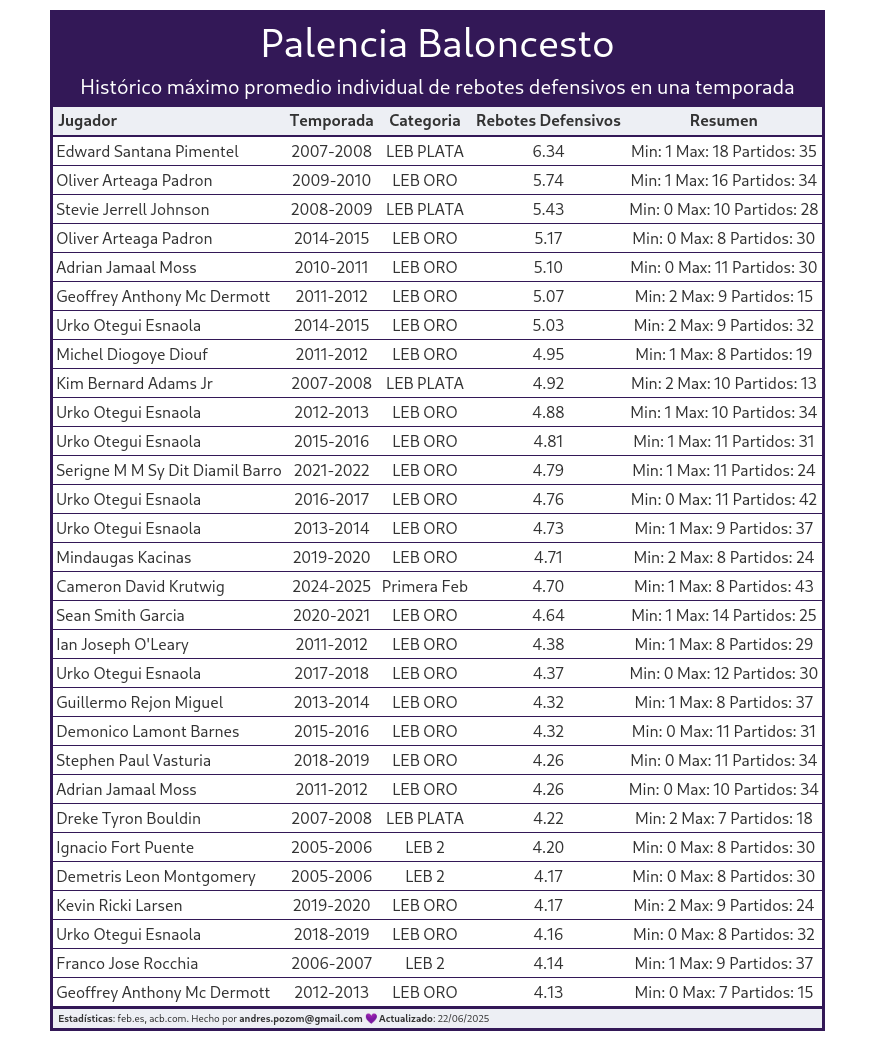
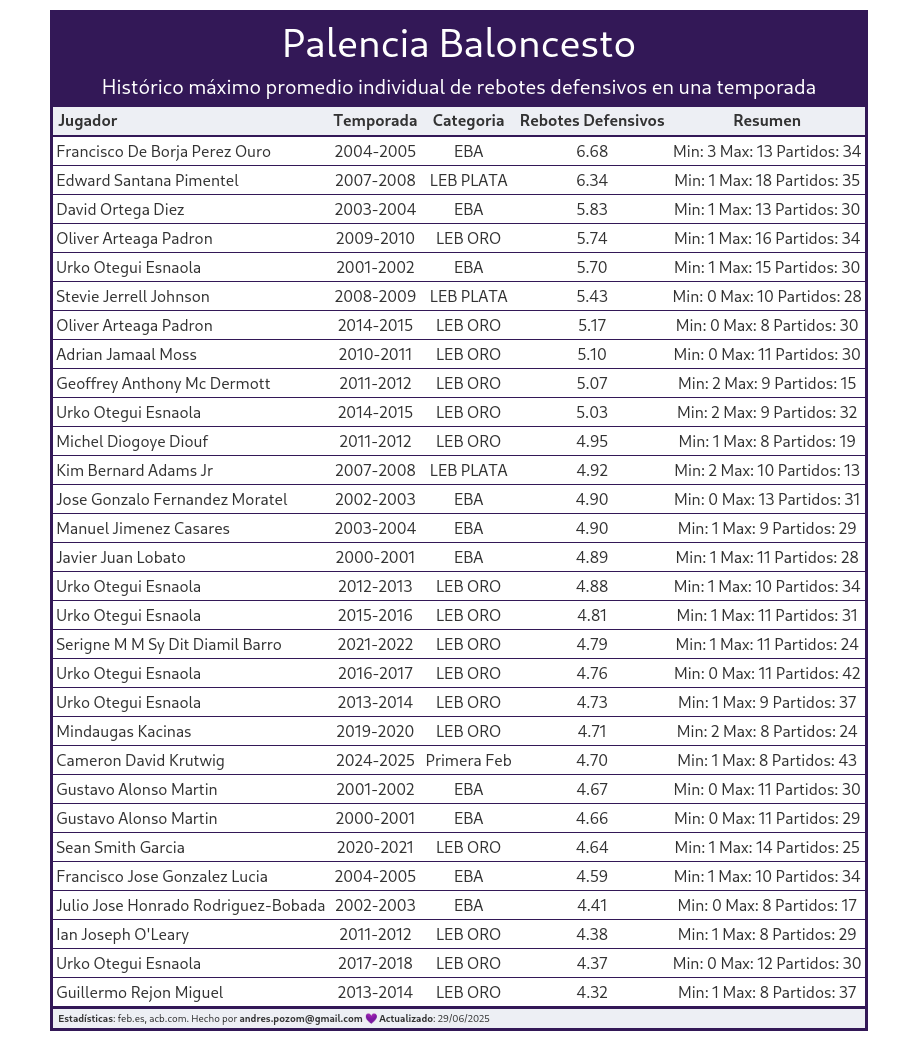
Update 20250629

Changed region(s): [[0.0309, 0.0307, 0.9566, 0.9837]]

diff --git a/records_individuales_temporadas.md b/records_individuales_temporadas.md
@@ -4,20 +4,38 @@
 ![Histórico máximo promedio individual de valoración en una temporada](imgs/Palencia_Baloncesto_Ranking_Temporadas_Valoracion_Individual.png)
 ![Histórico máximo promedio individual de valoracion en una temporada(Plata, Oro y ACB)](imgs/Palencia_Baloncesto_Ranking_Temporadas_Valoracion_Individual_plata_oro_acb.png)
 ![Histórico máximo promedio individual de rebotes en una temporada](imgs/Palencia_Baloncesto_Ranking_Temporadas_Rebotes_Individual.png)
+![Histórico máximo promedio individual de rebotes en una temporada(Plata, Oro y ACB)](imgs/Palencia_Baloncesto_Ranking_Temporadas_Rebotes_Individual_plata_oro_acb.png)
 ![Histórico máximo promedio individual de rebotes ofensivos en una temporada](imgs/Palencia_Baloncesto_Ranking_Temporadas_Rebotes_Ofensivos_Individual.png)
+![Histórico máximo promedio individual de rebotes ofensivos en una temporada(Plata, Oro y ACB)](imgs/Palencia_Baloncesto_Ranking_Temporadas_Rebotes_Ofensivos_Individual_plata_oro_acb.png)
 ![Histórico máximo promedio individual de rebotes defensivos en una temporada](imgs/Palencia_Baloncesto_Ranking_Temporadas_Rebotes_Defensivos_Individual.png)
+![Histórico máximo promedio individual de rebotes defensivos en una temporada(Plata, Oro y ACB)](imgs/Palencia_Baloncesto_Ranking_Temporadas_Rebotes_Defensivos_Individual_plata_oro_acb.png)
 ![Histórico máximo promedio individual de asistencias en una temporada](imgs/Palencia_Baloncesto_Ranking_Temporadas_Asistencias_Individual.png)
+![Histórico máximo promedio individual de asistencias en una temporada(Plata, Oro y ACB)](imgs/Palencia_Baloncesto_Ranking_Temporadas_Asistencias_Individual_plata_oro_acb.png)
 ![Histórico máximo promedio individual de perdidas en una temporada](imgs/Palencia_Baloncesto_Ranking_Temporadas_Perdidas_Individual.png)
+![Histórico máximo promedio individual de perdidas en una temporada(Plata, Oro y ACB)](imgs/Palencia_Baloncesto_Ranking_Temporadas_Perdidas_Individual_plata_oro_acb.png)
 ![Histórico máximo promedio individual de mates en una temporada](imgs/Palencia_Baloncesto_Ranking_Temporadas_Mates_Individual.png)
+![Histórico máximo promedio individual de mates en una temporada(Plata, Oro y ACB)](imgs/Palencia_Baloncesto_Ranking_Temporadas_Mates_Individual_plata_oro_acb.png)
 ![Histórico máximo promedio individual de faltas cometidas en una temporada](imgs/Palencia_Baloncesto_Ranking_Temporadas_Faltas_Cometidas_Individual.png)
+![Histórico máximo promedio individual de faltas cometidas en una temporada(Plata, Oro y ACB)](imgs/Palencia_Baloncesto_Ranking_Temporadas_Faltas_Cometidas_Individual_plata_oro_acb.png)
 ![Histórico máximo promedio individual de faltas recibidas en una temporada](imgs/Palencia_Baloncesto_Ranking_Temporadas_Faltas_Recibidas_Individual.png)
+![Histórico máximo promedio individual de faltas recibidas en una temporada(Plata, Oro y ACB)](imgs/Palencia_Baloncesto_Ranking_Temporadas_Faltas_Recibidas_Individual_plata_oro_acb.png)
 ![Histórico máximo promedio individual de recuperaciones en una temporada](imgs/Palencia_Baloncesto_Ranking_Temporadas_Recuperaciones_Individual.png)
+![Histórico máximo promedio individual de recuperaciones en una temporada(Plata, Oro y ACB)](imgs/Palencia_Baloncesto_Ranking_Temporadas_Recuperaciones_Individual_plata_oro_acb.png)
 ![Histórico máximo promedio individual TL intentados en una temporada](imgs/Palencia_Baloncesto_Ranking_Temporadas_TL_Intentados_Individual.png)
+![Histórico máximo promedio individual TL intentados en una temporada(Plata, Oro y ACB)](imgs/Palencia_Baloncesto_Ranking_Temporadas_TL_Intentados_Individual_plata_oro_acb.png)
 ![Histórico máximo promedio individual TL convertidos en una temporada](imgs/Palencia_Baloncesto_Ranking_Temporadas_TL_Convertidos_Individual.png)
+![Histórico máximo promedio individual TL convertidos en una temporada(Plata, Oro y ACB)](imgs/Palencia_Baloncesto_Ranking_Temporadas_TL_Convertidos_Individual_plata_oro_acb.png)
 ![Histórico máximo promedio individual Porcentaje TL en una temporada](imgs/Palencia_Baloncesto_Ranking_Temporadas_TL_Porcentaje_Individual.png)
+![Histórico máximo promedio individual Porcentaje TL en una temporada(Plata, Oro y ACB)](imgs/Palencia_Baloncesto_Ranking_Temporadas_TL_Porcentaje_Individual_plata_oro_acb.png)
 ![Histórico máximo promedio individual T2 intentados en una temporada](imgs/Palencia_Baloncesto_Ranking_Temporadas_T2_Intentados_Individual.png)
+![Histórico máximo promedio individual T2 intentados en una temporada(Plata, Oro y ACB)](imgs/Palencia_Baloncesto_Ranking_Temporadas_T2_Intentados_Individual_plata_oro_acb.png)
 ![Histórico máximo promedio individual T2 convertidos en una temporada](imgs/Palencia_Baloncesto_Ranking_Temporadas_T2_Convertidos_Individual.png)
+![Histórico máximo promedio individual T2 convertidos en una temporada(Plata, Oro y ACB)](imgs/Palencia_Baloncesto_Ranking_Temporadas_T2_Convertidos_Individual_plata_oro_acb.png)
 ![Histórico máximo promedio individual Porcentaje T2 en una temporada](imgs/Palencia_Baloncesto_Ranking_Temporadas_T2_Porcentaje_Individual.png)
+![Histórico máximo promedio individual Porcentaje T2 en una temporada(Plata, Oro y ACB)](imgs/Palencia_Baloncesto_Ranking_Temporadas_T2_Porcentaje_Individual_plata_oro_acb.png)
 ![Histórico máximo promedio individual T3 intentados en una temporada](imgs/Palencia_Baloncesto_Ranking_Temporadas_T3_Intentados_Individual.png)
+![Histórico máximo promedio individual T3 intentados en una temporada(Plata, Oro y ACB)](imgs/Palencia_Baloncesto_Ranking_Temporadas_T3_Intentados_Individual_plata_oro_acb.png)
 ![Histórico máximo promedio individual T3 convertidos en una temporada](imgs/Palencia_Baloncesto_Ranking_Temporadas_T3_Convertidos_Individual.png)
+![Histórico máximo promedio individual T3 convertidos en una temporada(Plata, Oro y ACB)](imgs/Palencia_Baloncesto_Ranking_Temporadas_T3_Convertidos_Individual_plata_oro_acb.png)
 ![Histórico máximo promedio individual Porcentaje T3 en una temporada](imgs/Palencia_Baloncesto_Ranking_Temporadas_T3_Porcentaje_Individual.png)
+![Histórico máximo promedio individual Porcentaje T3 en una temporada(Plata, Oro y ACB)](imgs/Palencia_Baloncesto_Ranking_Temporadas_T3_Porcentaje_Individual_plata_oro_acb.png)
